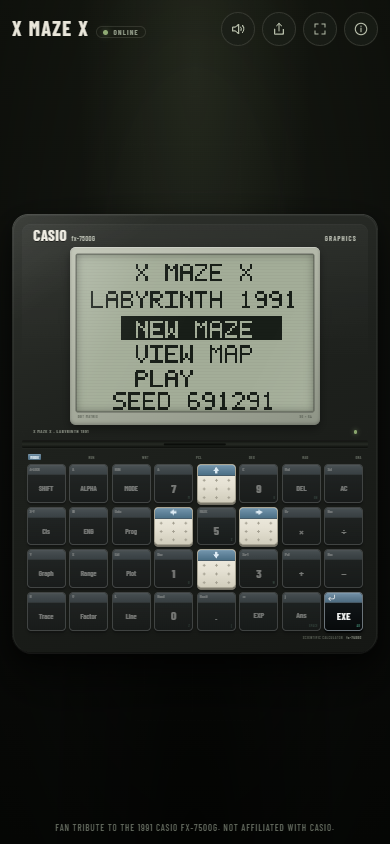
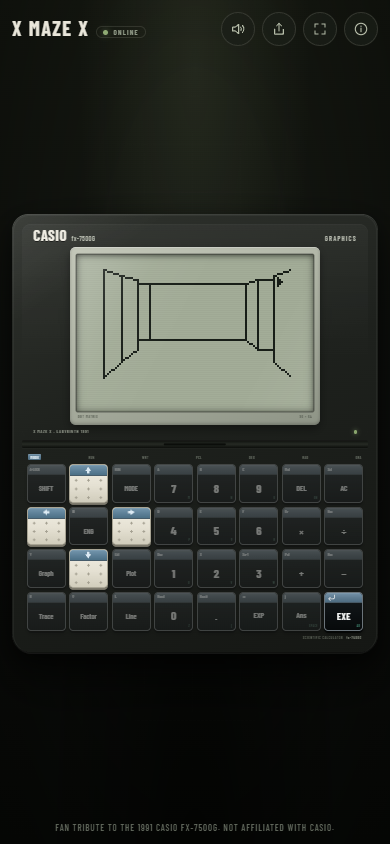
Scale the LCD to whole device pixels

Changed region(s): [[0.2154, 0.2773, 0.8, 0.4929], [0.0615, 0.5237, 0.7385, 0.7085], [0.4923, 0.6469, 0.6154, 0.7085]]

diff --git a/src/ui/Lcd.tsx b/src/ui/Lcd.tsx
@@ -1,14 +1,64 @@
-import { useRef } from 'react'
+import { useLayoutEffect, useRef, type RefObject } from 'react'
 import { FB_H, FB_W } from '../game/constants'
 import type { Game } from '../game/game'
 import { useGameLoop } from '../hooks/useGameLoop'
 
+/**
+ * Size the LCD canvas to the largest integer device-pixel multiple of the
+ * 96x64 framebuffer that fits. Fractional scaling makes some LCD pixels wider
+ * than others, which reads as doubled/thin lines in the wireframe view.
+ */
+function usePixelPerfectScale(
+  windowRef: RefObject<HTMLDivElement | null>,
+  canvasRef: RefObject<HTMLCanvasElement | null>,
+): void {
+  useLayoutEffect(() => {
+    const windowEl = windowRef.current
+    const canvas = canvasRef.current
+    if (!windowEl || !canvas) return
+
+    let frame = 0
+
+    const fit = () => {
+      frame = 0
+      const rect = windowEl.getBoundingClientRect()
+      const dpr = window.devicePixelRatio || 1
+      const scale = Math.max(
+        1,
+        Math.floor(
+          Math.min((rect.width * dpr) / FB_W, (rect.height * dpr) / FB_H),
+        ),
+      )
+      windowEl.style.setProperty('--lcd-cell', `${scale / dpr}px`)
+      canvas.style.width = `${(FB_W * scale) / dpr}px`
+      canvas.style.height = `${(FB_H * scale) / dpr}px`
+    }
+
+    const schedule = () => {
+      if (frame !== 0) return
+      frame = window.requestAnimationFrame(fit)
+    }
+
+    fit()
+    const observer = new ResizeObserver(schedule)
+    observer.observe(windowEl)
+    window.addEventListener('resize', schedule)
+    return () => {
+      observer.disconnect()
+      window.removeEventListener('resize', schedule)
+      if (frame !== 0) window.cancelAnimationFrame(frame)
+    }
+  }, [canvasRef, windowRef])
+}
+
 export function Lcd({ game }: { game: Game }) {
+  const windowRef = useRef<HTMLDivElement>(null)
   const canvasRef = useRef<HTMLCanvasElement>(null)
   useGameLoop(game, canvasRef)
+  usePixelPerfectScale(windowRef, canvasRef)
 
   return (
-    <div className="lcd-window">
+    <div className="lcd-window" ref={windowRef}>
       <canvas
         ref={canvasRef}
         width={FB_W}

diff --git a/src/ui/calculator.css b/src/ui/calculator.css
@@ -132,6 +132,8 @@
 
 .lcd-window {
   position: relative;
+  display: grid;
+  place-items: center;
   aspect-ratio: 3 / 2;
   overflow: hidden;
   border-radius: 0.55cqw;
@@ -170,7 +172,7 @@
   background: repeating-linear-gradient(
     to bottom,
     rgba(0, 0, 0, 0.08) 0 1px,
-    transparent 1px 3px
+    transparent 1px var(--lcd-cell, 3px)
   );
   mix-blend-mode: multiply;
 }
@@ -393,15 +395,6 @@
 .key--cap .key__legend {
   font-size: 2.1cqw;
   font-weight: 600;
-}
-
-.key--hub {
-  background: linear-gradient(180deg, #2b3b42 0%, #1b292f 55%, #121c20 100%);
-}
-
-.key--hub .key__legend {
-  font-size: 3.2cqw;
-  font-weight: 700;
 }
 
 /* Active white dotted keys */
